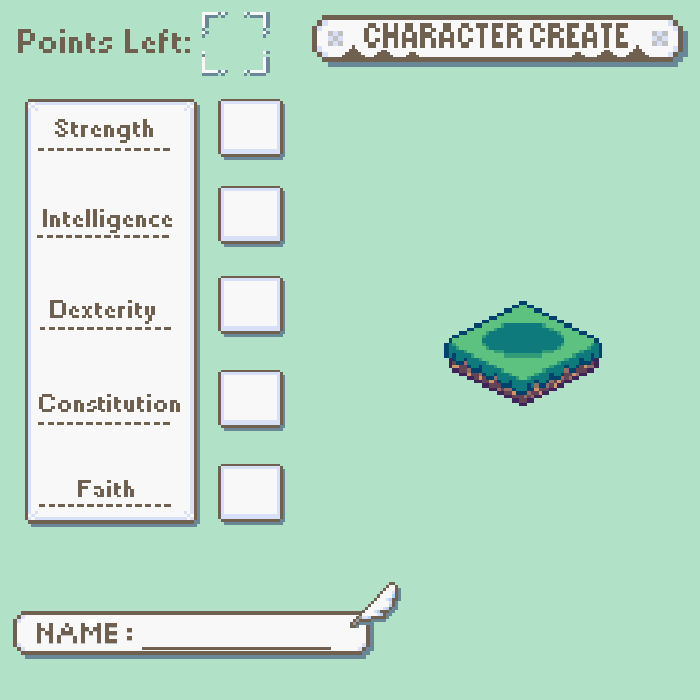
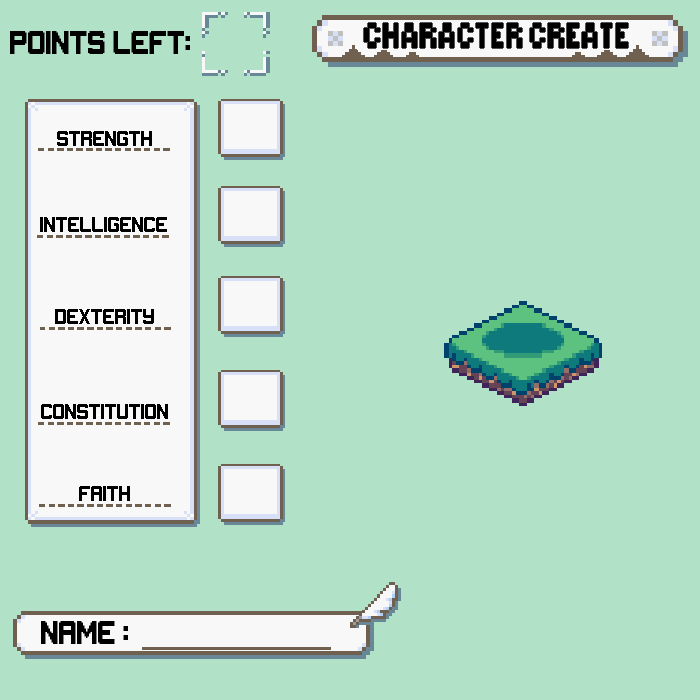
Font changes

diff --git a/Classes/mainGame.cpp b/Classes/mainGame.cpp
@@ -177,7 +177,7 @@ bool init() {
 		std::cout << "TTF could not initialize. Error: %s\n", TTF_GetError();
 		return false;
 	}
-	font = TTF_OpenFont("Fonts/ka1.ttf", 20);
+	font = TTF_OpenFont("Fonts/Gameplay.ttf", 20);
 	if (font == NULL) {
 		std::cout << "font was null";
 	}
@@ -666,7 +666,7 @@ int characterCreateScreen()
 	SDL_Rect dexterityTextRectangle = { attributeX, 302, 0, 0 };
 	SDL_Rect constitutionTextRectangle = { attributeX, 395, 0, 0 };
 	SDL_Rect faithTextRectangle = { attributeX, 490, 0, 0 };
-	SDL_Rect nameTextRectangle = { 143, 640, 0,0 };
+	SDL_Rect nameTextRectangle = { 150, 640, 0,0 };
 	SDL_Rect errorTextRectangle = { 115, 580, 0, 0 };
 	SDL_Rect errorTextRectangleLong = { 25, 580, 0, 0 };
 	SDL_Color textColor = { 112, 96, 80, 0 };
